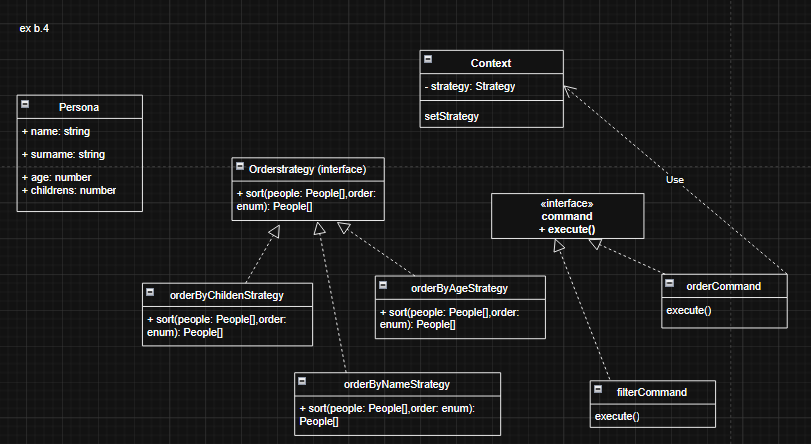
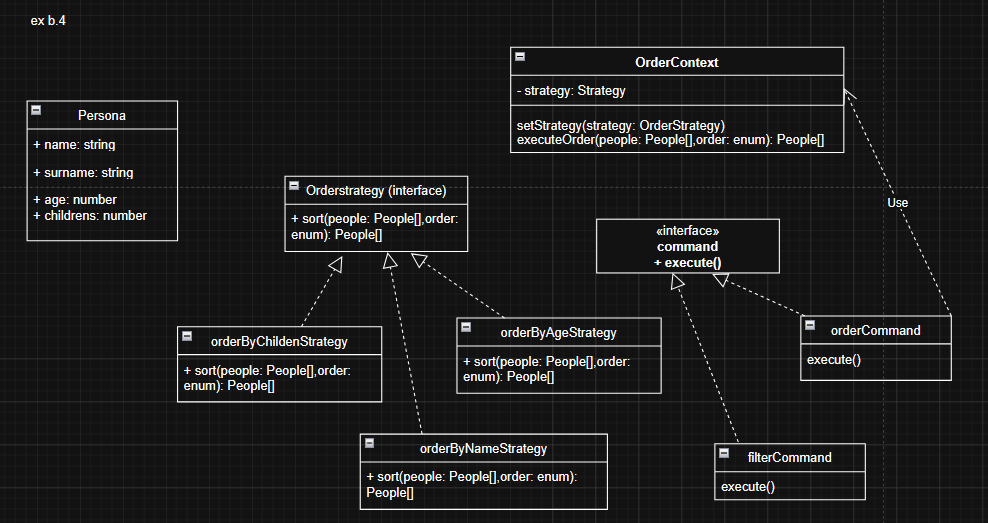
ex B SortPeople code and add method in uml

diff --git a/4-design-patterns/b-what-pattern-apply/sort-people-b4.ts b/4-design-patterns/b-what-pattern-apply/sort-people-b4.ts
@@ -1,0 +1,71 @@
+type Person = {
+    name: string;
+    surname: string;
+    age: number;
+    children: number;
+}
+
+enum OrderDirection {
+    ASC,
+    DESC
+}
+
+
+interface OrderStrategy {
+    sort(people: Person[], order: OrderDirection): Person[];
+}
+
+class OrderByChildren implements OrderStrategy {
+    sort(people: Person[], order: OrderDirection): Person[] {
+        throw new Error("Method not implemented.");
+    }
+}
+
+class OrderByName implements OrderStrategy {
+    sort(people: Person[], order: OrderDirection): Person[] {
+        throw new Error("Method not implemented.");
+    }
+}
+
+class OrderByAge implements OrderStrategy {
+    sort(people: Person[], order: OrderDirection): Person[] {
+        throw new Error("Method not implemented.");
+    }
+}
+
+
+class OrderContext {
+    #strategy!: OrderStrategy;
+
+    setStrategy(strategy: OrderStrategy): void{
+        this.#strategy = strategy;
+    }
+
+    executeOrder(people: Person[], order: OrderDirection): Person[] {
+        return this.#strategy.sort(people, order);
+    }
+}
+
+
+interface Command {
+    execute: () => void;
+}
+
+class OrderCommand implements Command{
+    constructor(
+        private context: OrderContext,
+        private people: Person[],
+        private direction: OrderDirection
+    ) {}
+
+    execute(): void{
+        this.context.executeOrder(this.people, this.direction)
+    };
+}
+
+
+const context = new OrderContext();
+context.setStrategy(new OrderByAge());
+
+const orderByAgeCommand = new OrderCommand(context, [], OrderDirection.ASC)
+orderByAgeCommand.execute();
